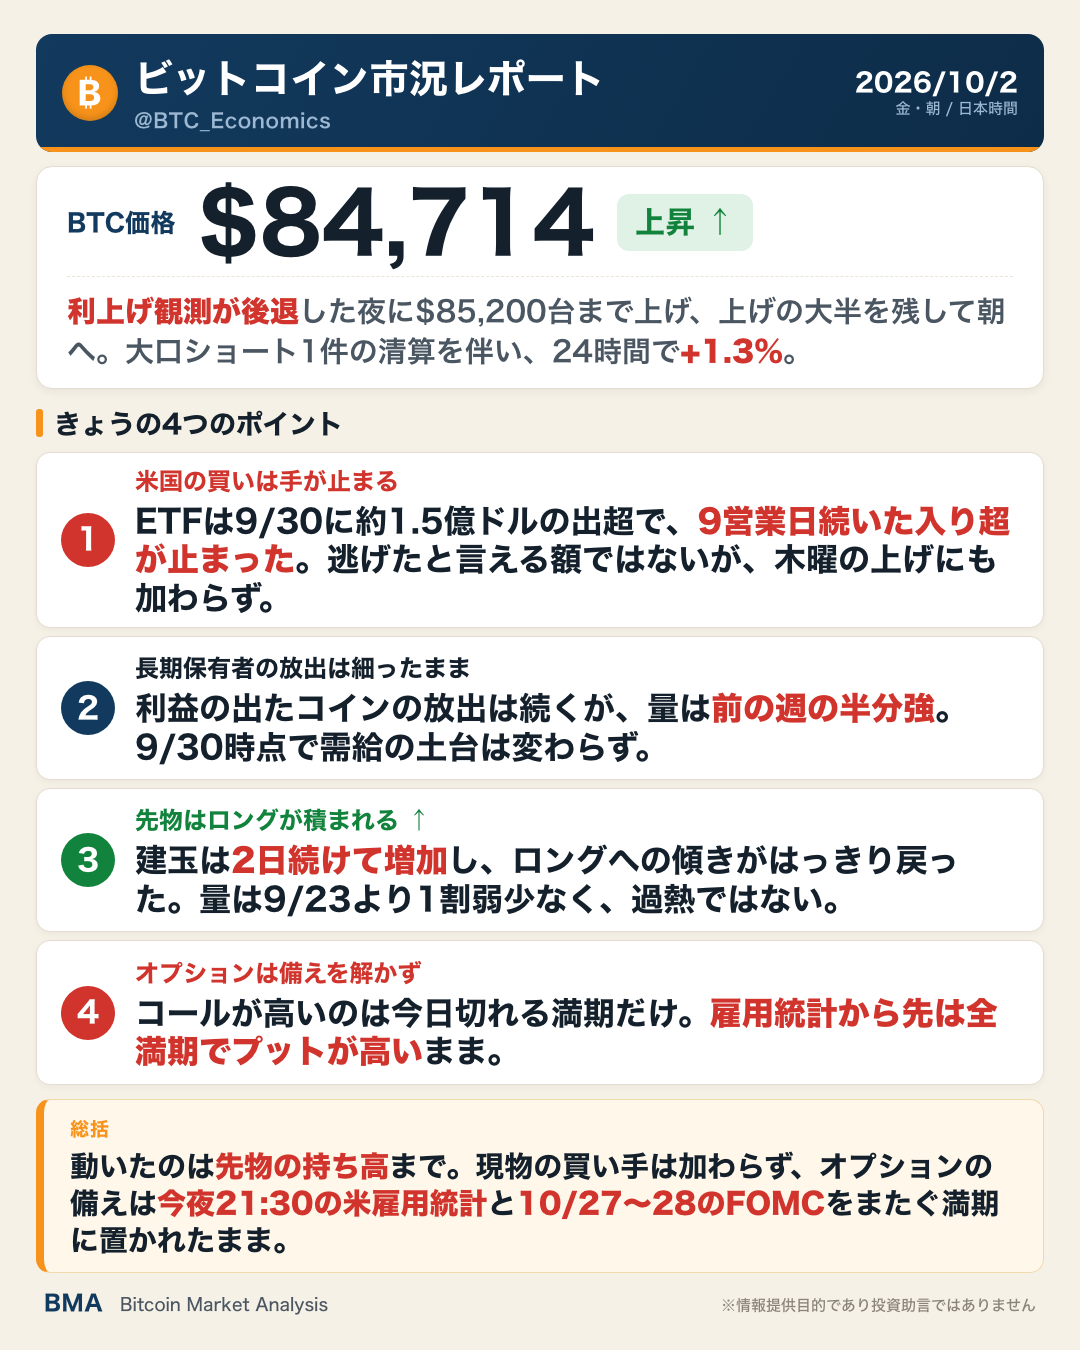
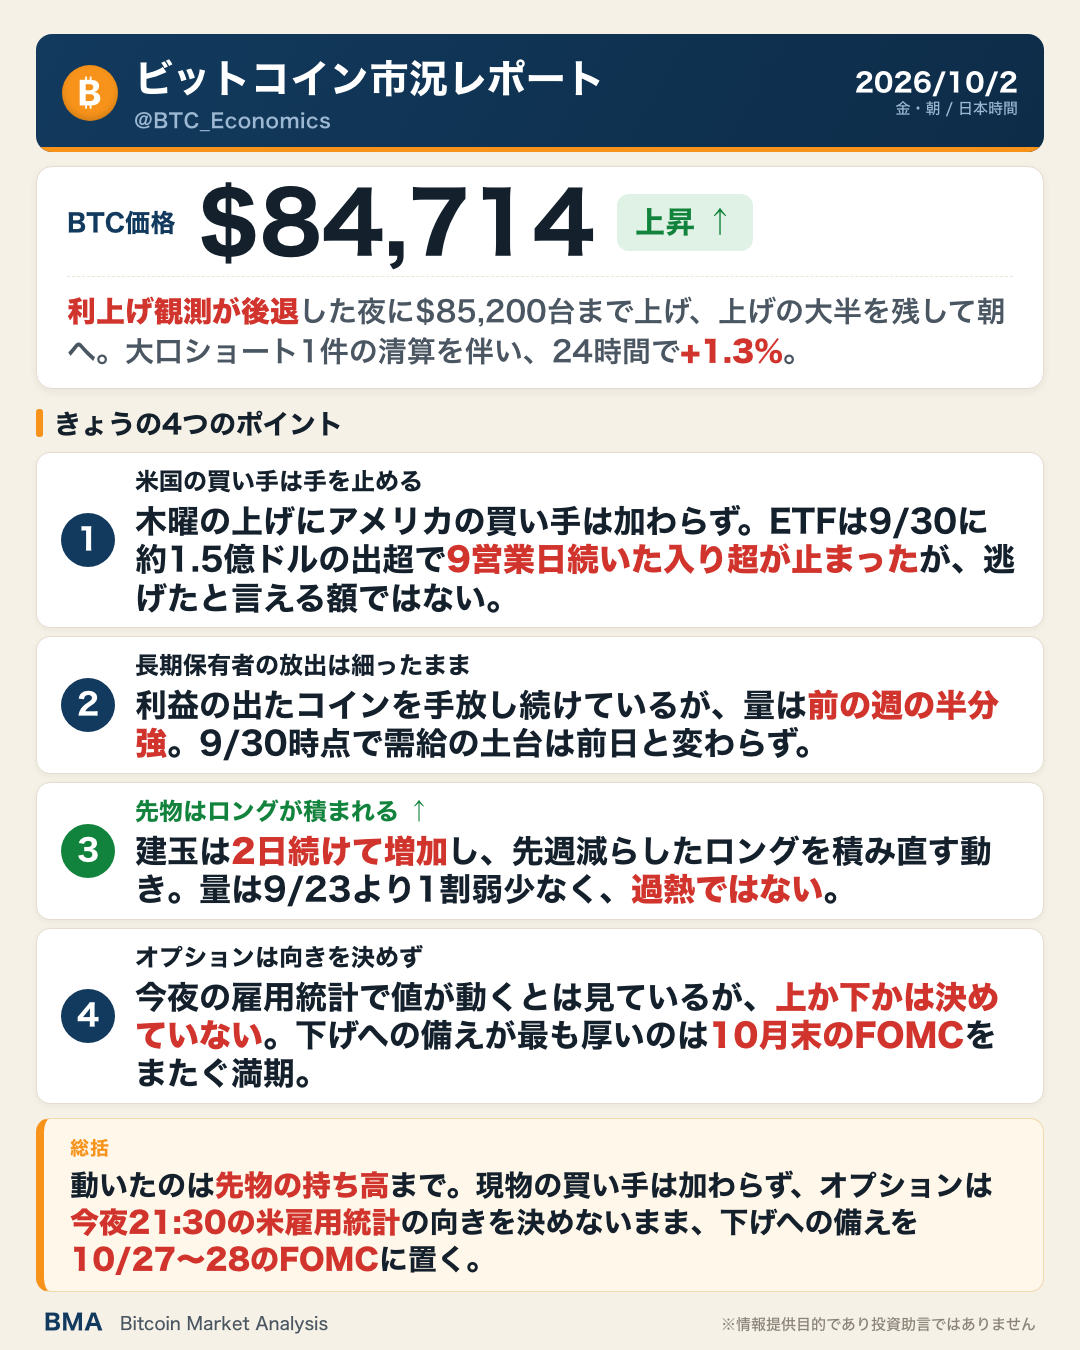
fix(report 2026-10-02): 読みの1文目を要点にし、まとめを出来事のたどり直しから要点へ
各図の読みが事実の羅列で、参加者がどう見ているかを読者が組み立てる形になっていた。
1文目に要点（例: 雇用統計は動くと見ているが向きは決めていない、下げへの備えは10月末のFOMC）
を置き、根拠は1〜2個に絞った。まとめは8文から4文へ。X の投稿文とカードも差し替え。

Changed region(s): [[0.0306, 0.3422, 0.9778, 0.9956]]

diff --git a/market-reports/README.md b/market-reports/README.md
@@ -4,7 +4,7 @@
 
 ## 2026年10月
 
-- **10月2日** — [利上げ観測が後退した夜に$85,200へ ― 大口ショート1件の清算を伴い、建玉は2日続けて増加](2026-10-02/)
+- **10月2日** — [利上げ観測が後退した夜に$85,200へ ― 先物のロングが2日続けて積まれ、現物の買い手は動かず](2026-10-02/)
 - **10月1日** — [米物価統計が予想を下回り$85,600へ跳ねて往復 ― ショートの清算を伴い、減り続けた建玉は増加へ](2026-10-01/)
 
 ## 2026年9月
